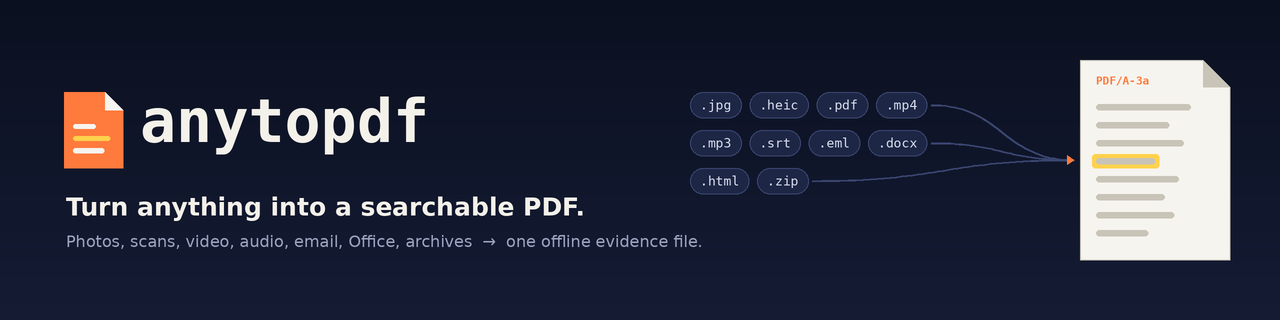
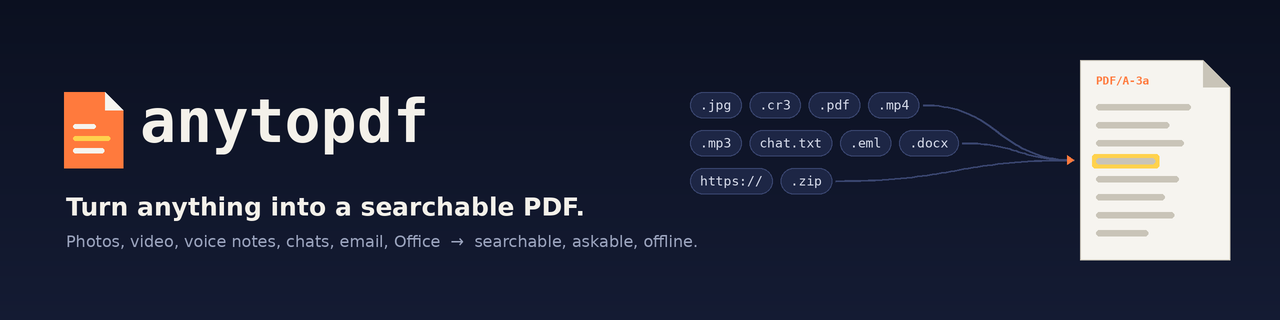
docs: refresh the README hero, demo and social preview for 0.3.0
Claude-Session: https://claude.ai/code/session_01D1iehcj2N1RskoL99PW2Ue

diff --git a/docs/demo/record.py b/docs/demo/record.py
@@ -5,12 +5,14 @@
     python3 docs/demo/record.py [--bin target/release/anytopdf]
 
 Needs Pillow, Tesseract and Poppler (pdftoppm, pdftotext). It draws a phone
-photo of a receipt, converts it with the anytopdf binary, then renders:
+photo of a receipt taken at an angle and a WhatsApp chat export, converts them
+with the anytopdf binary, then renders:
 
 - receipt.jpg: the input photo
-- before-after.png: the photo next to the produced PDF page, with the words a
-  search for "total" finds in the PDF's text layer highlighted
-- demo.gif: a terminal recording whose output is the commands' real output
+- before-after.png: the photo next to the produced (flattened) PDF page, with the
+  words a search for "total" finds in the PDF's text layer highlighted
+- demo.gif: a terminal recording (convert a folder into an index, search it, ask
+  it a question) whose output is the commands' real output
 """
 
 import argparse
@@ -31,6 +33,14 @@ FONTS = Path("/usr/share/fonts/truetype/dejavu")
 MONO = FONTS / "DejaVuSansMono.ttf"
 MONO_BOLD = FONTS / "DejaVuSansMono-Bold.ttf"
 
+CHAT = """\
+[18/09/2026, 17:42:10] Sam: Did you get the hinges for the shed?
+[18/09/2026, 17:43:02] Me: Yes, Northwind Hardware had everything. Came to £128.40 with VAT
+[18/09/2026, 17:43:30] Sam: Nice. Send me the receipt and I'll pay half
+[18/09/2026, 17:44:12] Me: Will do. Can we fix the door on Saturday at 10am?
+[18/09/2026, 17:44:40] Sam: Saturday works
+"""
+
 RECEIPT = [
     ("NORTHWIND HARDWARE", "bold", 44),
     ("118 Harbour Road, Portsmouth", "", 26),
@@ -50,6 +60,25 @@ RECEIPT = [
     ("Paid: VISA **** 4821", "", 26),
     ("Thank you for shopping local!", "", 26),
 ]
+
+
+def perspective_coeffs(dst, src):
+    """PIL PERSPECTIVE coefficients mapping output points dst onto input points src."""
+    rows, rhs = [], []
+    for (x, y), (u, v) in zip(dst, src):
+        rows.append([x, y, 1, 0, 0, 0, -u * x, -u * y])
+        rows.append([0, 0, 0, x, y, 1, -v * x, -v * y])
+        rhs += [u, v]
+    n = len(rows)
+    m = [row + [b] for row, b in zip(rows, rhs)]
+    for col in range(n):  # Gauss-Jordan elimination with partial pivoting
+        pivot = max(range(col, n), key=lambda r: abs(m[r][col]))
+        m[col], m[pivot] = m[pivot], m[col]
+        for r in range(n):
+            if r != col:
+                f = m[r][col] / m[col][col]
+                m[r] = [a - f * b for a, b in zip(m[r], m[col])]
+    return [m[i][n] / m[i][i] for i in range(n)]
 
 
 def make_photo(path):
@@ -79,13 +108,17 @@ def make_photo(path):
         dd.line([(0, i), (1000, i + rng.randint(-8, 8))], fill=(shade + 12, shade - 6, shade - 30), width=3)
     desk = desk.filter(ImageFilter.GaussianBlur(2))
 
-    rotated = paper.rotate(-1.2, resample=Image.BICUBIC, expand=True, fillcolor=(0, 0, 0, 0))
-    mask = Image.new("L", paper.size, 255).rotate(-1.2, resample=Image.BICUBIC, expand=True)
+    # Shot at an angle: the sheet lands on the desk as a rotated trapezoid.
+    corners = [(170, 120), (850, 185), (880, 1105), (115, 1060)]
+    w, h = paper.size
+    coeffs = perspective_coeffs(corners, [(0, 0), (w, 0), (w, h), (0, h)])
+    warped = paper.transform(desk.size, Image.PERSPECTIVE, coeffs, Image.BICUBIC)
+    mask = Image.new("L", paper.size, 255).transform(desk.size, Image.PERSPECTIVE, coeffs, Image.BICUBIC)
     shadow = Image.new("RGBA", desk.size, (0, 0, 0, 0))
-    shadow.paste((0, 0, 0, 150), (130, 130), mask)
+    shadow.paste((0, 0, 0, 150), (22, 28), mask)
     shadow = shadow.filter(ImageFilter.GaussianBlur(18))
     desk = Image.alpha_composite(desk.convert("RGBA"), shadow).convert("RGB")
-    desk.paste(rotated, (105, 95), mask)
+    desk.paste(warped, (0, 0), mask)
 
     # uneven light from a desk lamp
     light = Image.radial_gradient("L").resize(desk.size).point(lambda v: 255 - v // 3)
@@ -135,7 +168,7 @@ def before_after(photo, pdf, cwd, out):
     d = ImageDraw.Draw(canvas)
     label = ImageFont.truetype(str(MONO_BOLD), 22)
     d.text((pad, pad), "receipt.jpg  (phone photo)", font=label, fill="#f4f1ea")
-    d.text((pad + left.width + gap, pad), 'receipt.pdf  (search: "total")', font=label, fill="#f4f1ea")
+    d.text((pad + left.width + gap, pad), 'receipt.pdf  (flattened, search: "total")', font=label, fill="#f4f1ea")
     canvas.paste(left, (pad, pad + head))
     canvas.paste(right, (pad + left.width + gap, pad + head))
     ax, ay = pad + left.width + 18, pad + head + h // 2
@@ -145,7 +178,7 @@ def before_after(photo, pdf, cwd, out):
 
 
 class Terminal:
-    W, H, PAD, LINE = 1000, 560, 22, 24
+    W, H, PAD, LINE = 1000, 700, 22, 24
 
     def __init__(self):
         self.font = ImageFont.truetype(str(MONO), 17)
@@ -210,27 +243,37 @@ def main():
 
     photo = HERE / "receipt.jpg"
     make_photo(photo)
-    with tempfile.TemporaryDirectory() as tmp:
-        work = Path(tmp)
-        shutil.copy(photo, work / "receipt.jpg")
+    # A fixed, short folder keeps the absolute paths `search` prints readable.
+    work = Path(tempfile.gettempdir()) / "anytopdf-demo"
+    shutil.rmtree(work, ignore_errors=True)
+    inbox = work / "inbox"
+    inbox.mkdir(parents=True)
+    try:
+        shutil.copy(photo, inbox / "receipt.jpg")
+        (inbox / "WhatsApp Chat with Sam.txt").write_text(CHAT, encoding="utf-8")
         bindir = work / "bin"
         bindir.mkdir()
         (bindir / "anytopdf").symlink_to(binary)
-        env = f"PATH={shlex.quote(str(bindir))}:$PATH SOURCE_DATE_EPOCH=1790000000"
+        env = (f"PATH={shlex.quote(str(bindir))}:$PATH SOURCE_DATE_EPOCH=1790000000 "
+               f"ANYTOPDF_INDEX={shlex.quote(str(work / 'index.sqlite'))}")
 
         term = Terminal()
         term.frame(700, cursor=False)
         steps = [
-            ("anytopdf receipt.jpg -o receipt.pdf", None, 1600),
-            ("pdftotext -layout receipt.pdf - | grep -i total", "total", 2000),
-            ("anytopdf extract receipt.pdf --json | jq -r '.manifest.sources[0].sha256'", None, 4000),
+            ("ls inbox", None, 1200),
+            ("anytopdf inbox --index -o inbox.pdf", None, 1600),
+            ("anytopdf search northwind", "northwind", 2200),
+            ('anytopdf ask inbox.pdf "How much was the Northwind receipt?" --top 2 | head -12', "128.40", 4500),
         ]
         for cmd, highlight, ms in steps:
             out = run(f"{env} sh -c {shlex.quote(cmd)}", work)
             term.type(cmd)
             term.output(out, highlight=highlight, ms=ms)
         term.save(HERE / "demo.gif")
-        before_after(photo, work / "receipt.pdf", work, HERE / "before-after.png")
+        run(f"{env} anytopdf receipt.jpg -o receipt.pdf", inbox)
+        before_after(photo, inbox / "receipt.pdf", inbox, HERE / "before-after.png")
+    finally:
+        shutil.rmtree(work, ignore_errors=True)
     print("wrote receipt.jpg, before-after.png, demo.gif")
 
 

diff --git a/docs/brand/render.py b/docs/brand/render.py
@@ -43,7 +43,7 @@ THEMES = {
     },
 }
 
-INPUTS = [".jpg", ".heic", ".pdf", ".mp4", ".mp3", ".srt", ".eml", ".docx", ".html", ".zip"]
+INPUTS = [".jpg", ".cr3", ".pdf", ".mp4", ".mp3", "chat.txt", ".eml", ".docx", "https://", ".zip"]
 
 
 def font(name, size):
@@ -141,7 +141,7 @@ def banner(theme):
     draw.text(s(66, 192), "Turn anything into a searchable PDF.", font=font("DejaVuSans-Bold.ttf", 25), fill=t["ink"])
     draw.text(
         s(66, 232),
-        "Photos, scans, video, audio, email, Office, archives  →  one offline evidence file.",
+        "Photos, video, voice notes, chats, email, Office  \u2192  searchable, askable, offline.",
         font=font("DejaVuSans.ttf", 16),
         fill=t["muted"],
     )
@@ -163,13 +163,13 @@ def social_preview():
     draw.text(s(82, 284), "searchable PDF.", font=font("DejaVuSans-Bold.ttf", 44), fill=t["accent"])
     draw.text(
         s(84, 362),
-        "OCR, transcripts, captions and metadata in an invisible\ntext layer, plus an embedded manifest for RAG and agents.",
+        "OCR, transcripts, objects, scenes and places in an invisible\ntext layer. Then search and ask across all of it, offline.",
         font=font("DejaVuSans.ttf", 22),
         fill=t["muted"],
         spacing=8 * SCALE,
     )
     f = font("DejaVuSansMono.ttf", 18)
-    cmd = "$ anytopdf scan.jpg meeting.mp4 inbox.mbox -o evidence.pdf"
+    cmd = "$ anytopdf ask inbox.pdf \"How much was the Northwind receipt?\""
     draw.rounded_rectangle(s(80, 470, 1200, 530), radius=12 * SCALE, fill=t["chip"], outline=t["wire"], width=SCALE)
     draw.text(s(104, 487), cmd, font=f, fill=t["chip_ink"])
     draw.text(

diff --git a/README.md b/README.md
@@ -16,24 +16,29 @@
 
 # anytopdf
 
-**Turn photos, scans, video, audio, email, Office files and archives into one
-searchable PDF, offline, with a single binary.**
+**A private search engine for everything you keep. Photos, scans, video, voice
+notes, chat exports, email and Office files become searchable PDFs that you can
+search and question, offline, from one download.**
 
 ```console
-$ anytopdf receipt.jpg meeting.mp4 inbox.mbox -o evidence.pdf
+$ anytopdf ~/inbox --index -o inbox.pdf
+$ anytopdf search northwind
+$ anytopdf ask inbox.pdf "How much was the Northwind receipt?"
 ```
 
 Every page looks like the original. Underneath, an invisible text layer carries
-the OCR, transcripts, captions and timestamps, so Ctrl+F, Spotlight, `pdftotext`
-and your RAG pipeline all find the words. A manifest with SHA-256 hashes and
-per-page chunks is embedded in the PDF, which makes the file its own index.
+what anytopdf read, heard and saw: OCR from flattened phone photos, Whisper
+transcripts, captions, objects, scene tags, places, dates and links. So Ctrl+F,
+Spotlight, `pdftotext`, `anytopdf search` and your RAG pipeline all find it. A
+manifest with SHA-256 hashes and per-page chunks is embedded in the PDF, which
+makes the file its own index.
 
 <p align="center">
-  <img alt="A phone photo of a receipt becomes a PDF in which a search for 'total' highlights the words on the page" src="docs/demo/before-after.png" width="100%">
+  <img alt="An angled phone photo of a receipt becomes a flattened PDF page in which a search for 'total' highlights the words" src="docs/demo/before-after.png" width="100%">
 </p>
 
 <p align="center">
-  <img alt="Terminal: anytopdf converts receipt.jpg, pdftotext finds TOTAL GBP 128.40, anytopdf extract prints the source hash" src="docs/demo/demo.gif" width="80%">
+  <img alt="Terminal: anytopdf converts a folder with a receipt photo and a WhatsApp chat into an indexed PDF, anytopdf search finds Northwind in both, and anytopdf ask returns the passages with the total" src="docs/demo/demo.gif" width="80%">
 </p>
 
 <sub>Both images come from a real run of the release binary
@@ -43,16 +48,19 @@ per-page chunks is embedded in the PDF, which makes the file its own index.
 
 | | |
 | --- | --- |
-| **Reads almost anything** | Photos (JPEG, PNG, TIFF, HEIC/AVIF, camera RAW) with phone-photo page flattening, scanned and digital PDFs, video, audio, SRT/VTT captions, text and Markdown, JSON and JSON Lines, HTML, `.eml`/`.mbox` email with attachments, WhatsApp/Telegram/Slack/iMessage chat exports, Word/Excel/PowerPoint/OpenDocument, zip and tar archives, and print jobs |
-| **Finds the words** | OCR through Apple Vision, docTR or Tesseract, kept word-aligned under the image; speech to text through the bundled Whisper plugin; video keyframes chosen by interval and scene change |
+| **Reads almost anything** | Photos (JPEG, PNG, TIFF, HEIC/AVIF, camera RAW) with phone-photo page flattening, scanned and digital PDFs, video, audio, SRT/VTT captions, text and Markdown, JSON and JSON Lines, HTML, web pages and YouTube links, browser bookmarks, `.eml`/`.mbox` email with attachments, WhatsApp/Telegram/Slack/iMessage chat exports, Word/Excel/PowerPoint/OpenDocument, zip and tar archives, screen recordings and print jobs |
+| **Reads, hears and sees** | OCR through Apple Vision, docTR or Tesseract, word-aligned under the image; Whisper speech to text; CLIP scene tags so "beach" finds beach photos; YOLO objects; face presence and opt-in matching against your own local face index; laughter, applause and sirens; dominant colours, places, dates, links, sentiment and tone. Nothing estimates age, gender or emotion |
+| **Search and ask across everything** | `anytopdf search` queries a local SQLite index of every converted PDF, filtered by kind or person; `anytopdf ask` returns ranked passages citing file, page and time, and writes a cited answer with any local OpenAI-compatible LLM |
 | **Writes a real archive file** | Tagged PDF/A-3a with bookmarks, Arabic/Hebrew/CJK shaping, byte-reproducible output, and a provenance page |
-| **Proves where it came from** | Embedded `anytopdf-manifest.json` and `anytopdf-chunks.json` with source hashes and page maps; `anytopdf extract --json` reads them back |
-| **Plugs into agents** | `anytopdf mcp` is a Model Context Protocol server: `claude mcp add anytopdf -- anytopdf mcp` |
+| **Proves where it came from** | Embedded `anytopdf-manifest.json` and `anytopdf-chunks.json` with source hashes, page maps and entities; `anytopdf extract --json` reads them back |
+| **Plugs into agents** | `anytopdf mcp` is a Model Context Protocol server with convert, search and ask tools: `claude mcp add anytopdf -- anytopdf mcp` |
 | **Runs unattended** | Folder-backed job queue, HTTP upload intake, signed webhooks, an IMAP mailbox watcher, and an optional IPP printer helper that phones and laptops can print to |
 | **Extends without forks** | Any `anytopdf-plugin-*` executable on `PATH`, in any language, speaks a versioned JSON protocol; an opt-in sandbox confines it |
 
-Nothing leaves your machine: no cloud OCR, no telemetry, and no network access
-unless you turn on an intake channel (queue server, webhooks, IMAP or the printer).
+Nothing leaves your machine: models run locally, there is no telemetry, and the
+network is used only when you convert a URL, download a model, point anytopdf at
+your own LLM endpoint, or turn on an intake channel (queue server, webhooks, IMAP
+or the printer).
 
 ## Install
 
